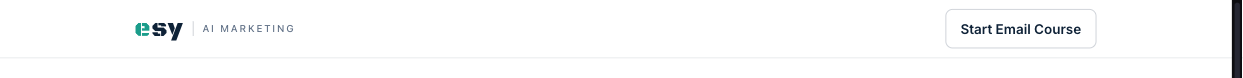
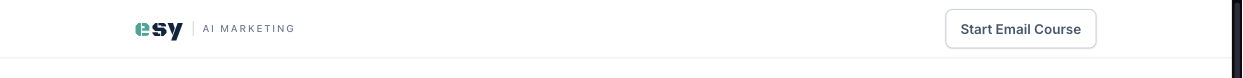
copy: the header's email box submits with Start, and the button reads as a button

Changed region(s): [[0.7643, 0.3077, 0.8866, 0.4359], [0.0917, 0.2821, 0.1223, 0.4615]]

diff --git a/src/components/LightHeader/LightHeader.css b/src/components/LightHeader/LightHeader.css
@@ -58,12 +58,16 @@
   display: inline-flex; align-items: center; justify-content: center;
   min-width: 120px;
   font-size: 0.94rem; font-weight: 600; color: #41566D;
-  background: transparent; text-decoration: none;
+  text-decoration: none; cursor: pointer;
   padding: 9px 16px; border-radius: 8px;
-  border: 1px solid #e5e7eb;
+  /* The original colours, made to read as a button (2026-10-09): a darker
+     grey border and a faint shadow; the background stays white. */
+  background: #fff;
+  border: 1px solid #c3c9d2;
+  box-shadow: 0 1px 2px rgba(10, 37, 64, 0.08);
   transition: color 0.15s ease, border-color 0.15s ease;
 }
-.lh-cta:hover { color: #0A2540; border-color: #d1d5db; }
+.lh-cta:hover { color: #0A2540; border-color: #9aa3af; }
 
 /* The Articles dropdown. Its surface, motion, and content styles are the
    shared nav panel rules in globals.css (.nav-panel, .nav-agentic-*); this
